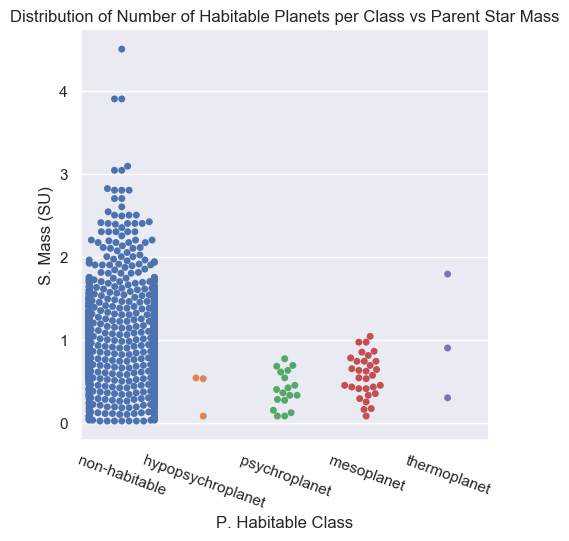
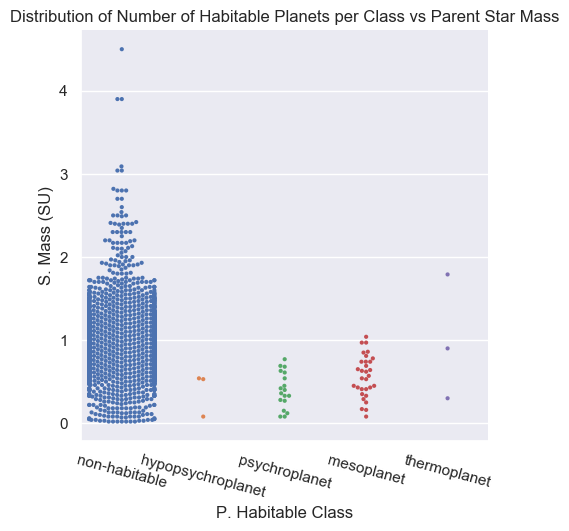
updated most graphs
Finished all of my graphs, and also added timing to main()

diff --git a/stats_functions.py b/stats_functions.py
@@ -2,6 +2,7 @@
 import pandas as pd
 import seaborn as sns
 import matplotlib.pyplot as plt
+import time
 sns.set()
 
 planets = ['non-habitable', 'hypopsychroplanet', 'psychroplanet', 'mesoplanet',
@@ -10,6 +11,9 @@ planets = ['non-habitable', 'hypopsychroplanet', 'psychroplanet', 'mesoplanet',
 
 def s_type(data):
     """
+    Plot the number of habitable exoplanets for differen star types from the
+    data. In order to avoid severely cluttered axes, only star types with one
+    or more habitable exoplanet are included.
     """
     plt.cla()
     d = data[data['P. Habitable'] != 0
@@ -27,8 +31,8 @@ def s_mass(data):
     """
     plt.cla()
     sns.swarmplot(x='P. Habitable Class', y='S. Mass (SU)',
-                  order=planets, data=data)
-    plt.xticks(rotation=-20)
+                  order=planets, size=3, data=data)
+    plt.xticks(rotation=-15)
     plt.title('Distribution of Number of Habitable' +
               ' Planets per Class vs Parent Star Mass')
     plt.savefig('s_mass.png', bbox_inches='tight')
@@ -38,12 +42,44 @@ def s_radius(data):
     """
     """
     plt.cla()
+    sns.swarmplot(x='P. Habitable Class', y='S. Radius (SU)',
+                  order=planets, size=3, data=data)
+    plt.xticks(rotation=-15)
+    plt.title('Distribution of Number of Habitable' +
+              ' Exoplanets per Class vs Parent Star Radius')
+    plt.savefig('s_radius.png', bbox_inches='tight')
+
+
+def s_mass_vs_radius(data):
+    """
+    """
+    plt.cla()
+    sns.relplot(x='S. Mass (SU)', y='S. Radius (SU)',
+                hue='P. Habitable Class', data=data)
+    plt.xticks(rotation=-15)
+    plt.title('Star Mass vs Star Radius for Stars with Known Exoplanets')
+    plt.savefig('s_mass_vs_radius_all.png', bbox_inches='tight')
+
+    plt.cla()
+    d = data[data['P. Habitable'] == 1]
+    sns.relplot(x='S. Mass (SU)', y='S. Radius (SU)',
+                hue='P. Habitable Class', data=d)
+    plt.xticks(rotation=-15)
+    plt.title('Star Mass vs Star Radius for Stars' +
+              'with Known Habitable Exoplanets')
+    plt.savefig('s_mass_vs_radius_habitable.png', bbox_inches='tight')
 
 
 def s_teff(data):
     """
     """
     plt.cla()
+    sns.swarmplot(x='P. Habitable Class', y='S. Teff (K)',
+                  order=planets, size=3, data=data)
+    plt.xticks(rotation=-15)
+    plt.title('Distribution of Number of Habitable' +
+              ' Exoplanets per Class vs Parent Star Effective Temperature')
+    plt.savefig('s_teff.png', bbox_inches='tight')
 
 
 def s_luminosity(data):
@@ -52,17 +88,48 @@ def s_luminosity(data):
     plt.cla()
     d = data[['P. Habitable Class', 'S. Luminosity (SU)']]
     sns.swarmplot(x='P. Habitable Class', y='S. Luminosity (SU)',
-                  order=planets, size=1, data=d)
-    plt.xticks(rotation=-20)
+                  order=planets, size=3, data=d)
+    plt.xticks(rotation=-15)
     plt.title('Distribution of Number of Habitable' +
               ' Planets per Class vs Parent Star Luminosity')
-    plt.savefig('luminiosity.png')
+    plt.savefig('s_luminiosity.png', bbox_inches='tight')
 
 
 def s_FeH(data):
     """
     """
+    # plot unaltered data
     plt.cla()
+    sns.swarmplot(x='P. Habitable Class', y='S. [Fe/H]',
+                  order=planets, size=3, data=data)
+    plt.xticks(rotation=-15)
+    plt.title('Distribution of Number of Habitable' +
+              ' Planets per Class vs Parent Star Iron to Hydrogen Ratio')
+    plt.savefig('s_FeH.png', bbox_inches='tight')
+
+    # plot with outliers removed
+    plt.cla()
+    d = data[['S. [Fe/H]', 'P. Habitable Class'
+              ]][data['S. [Fe/H]'] > -5]
+    sns.swarmplot(x='P. Habitable Class', y='S. [Fe/H]',
+                  order=planets, size=3, data=d)
+    plt.xticks(rotation=-15)
+    plt.title('Distribution of Number of Habitable' +
+              ' Planets per Class vs Parent Star Iron to Hydrogen Ratio' +
+              ' with Outlying Points Removed')
+    plt.savefig('s_FeH_no_outliers.png', bbox_inches='tight')
+
+    # plot with only habitable planets
+    plt.cla()
+    d = data[['S. [Fe/H]', 'P. Habitable Class'
+              ]][data['P. Habitable'] == 1]
+    sns.swarmplot(x='P. Habitable Class', y='S. [Fe/H]',
+                  order=planets, size=3, data=d)
+    plt.xticks(rotation=-15)
+    plt.title('Distribution of Number of Habitable' +
+              ' Planets per Habitable Class vs Parent Star' +
+              ' Iron to Hydrogen Ratio')
+    plt.savefig('s_FeH_only_habitable.png', bbox_inches='tight')
 
 
 def s_age(data):
@@ -74,7 +141,7 @@ def s_age(data):
     plt.xticks(rotation=-15)
     plt.title('Distribution of Number of Habitable' +
               ' Exoplanets per Class vs Age of Parent Star')
-    plt.savefig('s_age.png')
+    plt.savefig('s_age.png', bbox_inches='tight')
 
 
 def s_ra(data):
@@ -115,12 +182,35 @@ def s_size_from_planet(data):
 
 
 def main():
-    """
-    """
     data = pd.read_csv('phl_hec_all_confirmed.csv')
+    start_time = time.time()
     s_type(data)
+    print('finished type!   ',
+          '--- %s seconds ---' % (time.time() - start_time))
     s_mass(data)
+    print('finished mass!   ',
+          '--- %s seconds ---' % (time.time() - start_time))
+    s_teff(data)
+    print('finished teff!   ',
+          '--- %s seconds ---' % (time.time() - start_time))
+    s_FeH(data)
+    print('finished [Fe/H]!   ',
+          '--- %s seconds ---' % (time.time() - start_time))
+    s_age(data)
+    print('finished age!   ',
+          '--- %s seconds ---' % (time.time() - start_time))
+    s_ra(data)
+    print('finished ra!   ',
+          '--- %s seconds ---' % (time.time() - start_time))
+    s_dec(data)
+    print('finished dec!   ',
+          '--- %s seconds ---' % (time.time() - start_time))
+    s_radius(data)
+    print('finished radius!   ',
+          '--- %s seconds ---' % (time.time() - start_time))
     s_luminosity(data)
+    print('finished luminosity!   ',
+          '--- %s seconds ---' % (time.time() - start_time))
 
 
 if __name__ == '__main__':
